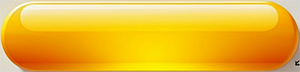
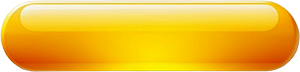
로딩바 fill 세로 압축 보정 (fillInsetY 10→5)

Changed region(s): [[0.0, 0.0, 1.0, 1.0]]

diff --git a/src/scene/TitleScreen.ts b/src/scene/TitleScreen.ts
@@ -19,7 +19,7 @@ export class TitleScreen extends Container {
   private barDisplayW = 600;
   private barDisplayH = 60;
   private fillInsetX = 14;
-  private fillInsetY = 10;
+  private fillInsetY = 5;
   private loadingProgress = 0;
   private loadingDuration = 2400;
   // Play 버튼
